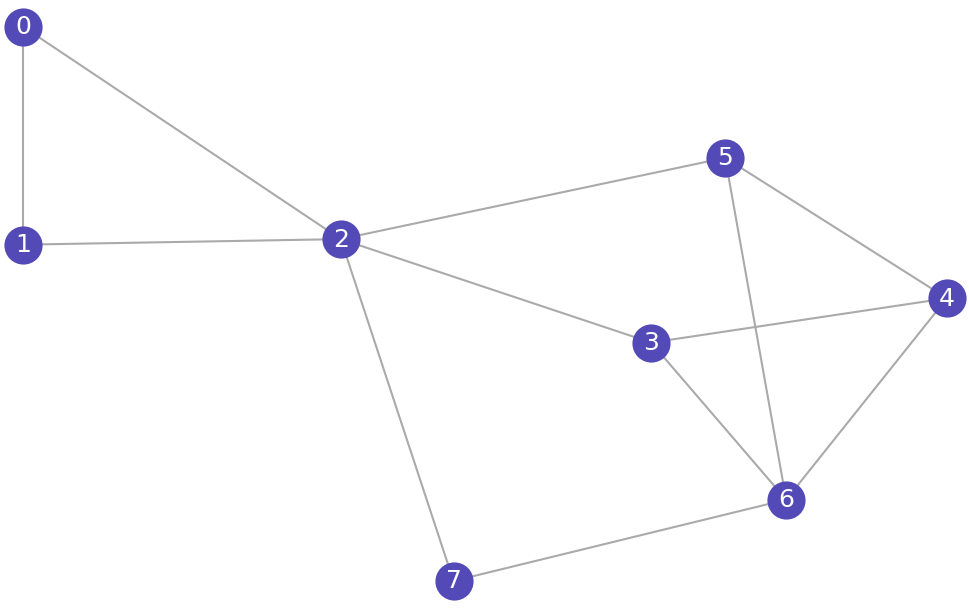
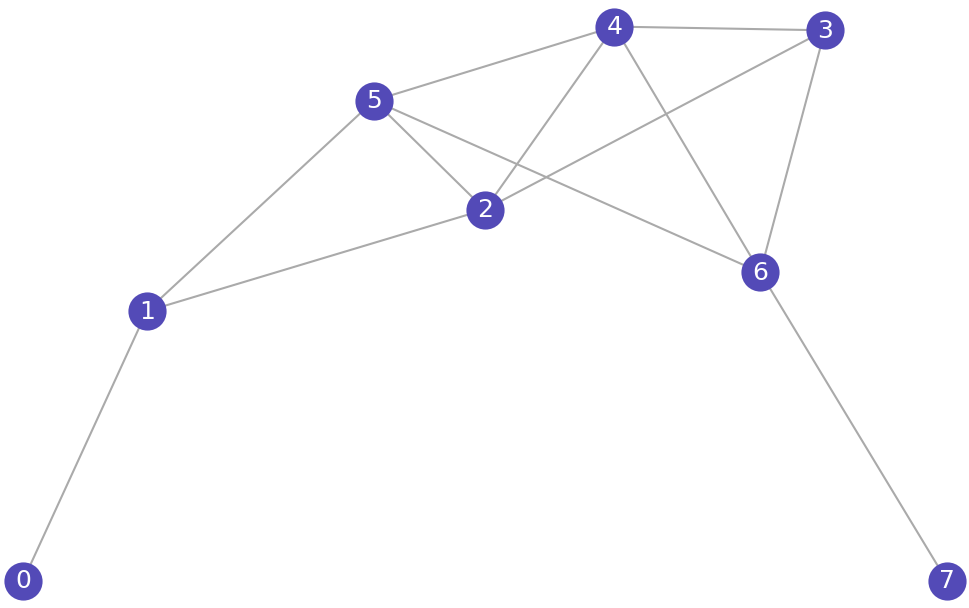
added angle change

diff --git a/spring_graphs.py b/spring_graphs.py
@@ -91,29 +91,51 @@ def fruchterman_reingold(edges, num_nodes, width, height, iterations):
     return positions
 
 
-def angles(positions, edges, num_nodes):
-    
-    for first_node, other_node in edges:
-        dist_x = positions[first_node][0] - positions[other_node][0]
-        dist_y = positions[first_node][1] - positions[other_node][1]
-        dist = math.sqrt(dist_x ** 2 + dist_y ** 2)
-        if dist_y == 0:
-            angle = math.pi/2
-        elif dist_x == 0:
-            angle = math.pi
-        else:
-            angle = math.atan(abs(dist_x) / abs(dist_y))
-        
-        if angle < math.pi/12:
-            ideal_angle = 0
-        elif math.pi/12 < angle <= math.pi/4:
-            ideal_angle = math.pi/6
-        elif math.pi/4 < angle <= 5 * math.pi/12:
-            ideal_angle = math.pi/3
-        elif 5 * math.pi/12 < angle:
-            ideal_angle = math.pi/2
-            
-        print(first_node, other_node, math.degrees(angle), math.degrees(ideal_angle))
+def angles(positions, edges, num_nodes, width, height, iterations):
+    displacement = {i: [0.0, 0.0] for i in range(num_nodes)}
+    step = 0.1  # fraction to move toward ideal angle each call
+    for _ in range(iterations):
+        for first_node, other_node in edges:
+            dist_x = positions[first_node][0] - positions[other_node][0]
+            dist_y = positions[first_node][1] - positions[other_node][1]
+            dist = math.sqrt(dist_x**2 + dist_y**2) or 1e-6
+
+            if dist_x == 0:
+                ratio = float('inf')
+            else:
+                ratio = abs(dist_y / dist_x)
+
+            # snap to nearest of 0°, 30°, 60°, 90°
+            # preserve original dist so node stays same distance away
+            if ratio < 1 / (2 * math.sqrt(3)):          # snap to 0°
+                ideal_dx = math.copysign(dist, dist_x)
+                ideal_dy = 0.0
+            elif ratio < 1:                              # snap to 30°
+                ideal_dx = math.copysign(dist / (2), dist_x)
+                ideal_dy = math.copysign(dist * math.sqrt(3) / 2, dist_y)
+            elif ratio < 2 * math.sqrt(3):              # snap to 60°
+                ideal_dx = math.copysign(dist / 2, dist_x)
+                ideal_dy = math.copysign(dist * math.sqrt(3) / 2, dist_y)
+            else:                                        # snap to 90°
+                ideal_dx = 0.0
+                ideal_dy = math.copysign(dist, dist_y)
+
+            # ideal position of other_node relative to first_node
+            ideal_x = positions[first_node][0] - ideal_dx
+            ideal_y = positions[first_node][1] - ideal_dy
+
+            # accumulate small step toward ideal
+            displacement[other_node][0] += (ideal_x - positions[other_node][0]) * step
+            displacement[other_node][1] += (ideal_y - positions[other_node][1]) * step
+
+    # apply all displacements at once
+    for node in range(num_nodes):
+        dx, dy = displacement[node]
+        new_x = max(0.0, min(width,  positions[node][0] + dx))
+        new_y = max(0.0, min(height, positions[node][1] + dy))
+        positions[node] = (new_x, new_y)
+
+    return positions
 
 
 def gravity(positions, num_nodes, width, height, iterations):
@@ -193,9 +215,9 @@ def main():
     G.add_edges_from(edges)
     save_png(G, positions, 500, 300, "graph_final.png", 150)
     
-    angles(positions, edges, num_nodes)
+    positions = angles(positions, edges, num_nodes, 500, 300, 100)
            
-    positions = gravity(positions, num_nodes, 500, 300, 50)
+    #positions = gravity(positions, num_nodes, 500, 300, 50)
     print(positions)
     H = nx.Graph()
     H.add_edges_from(edges)
